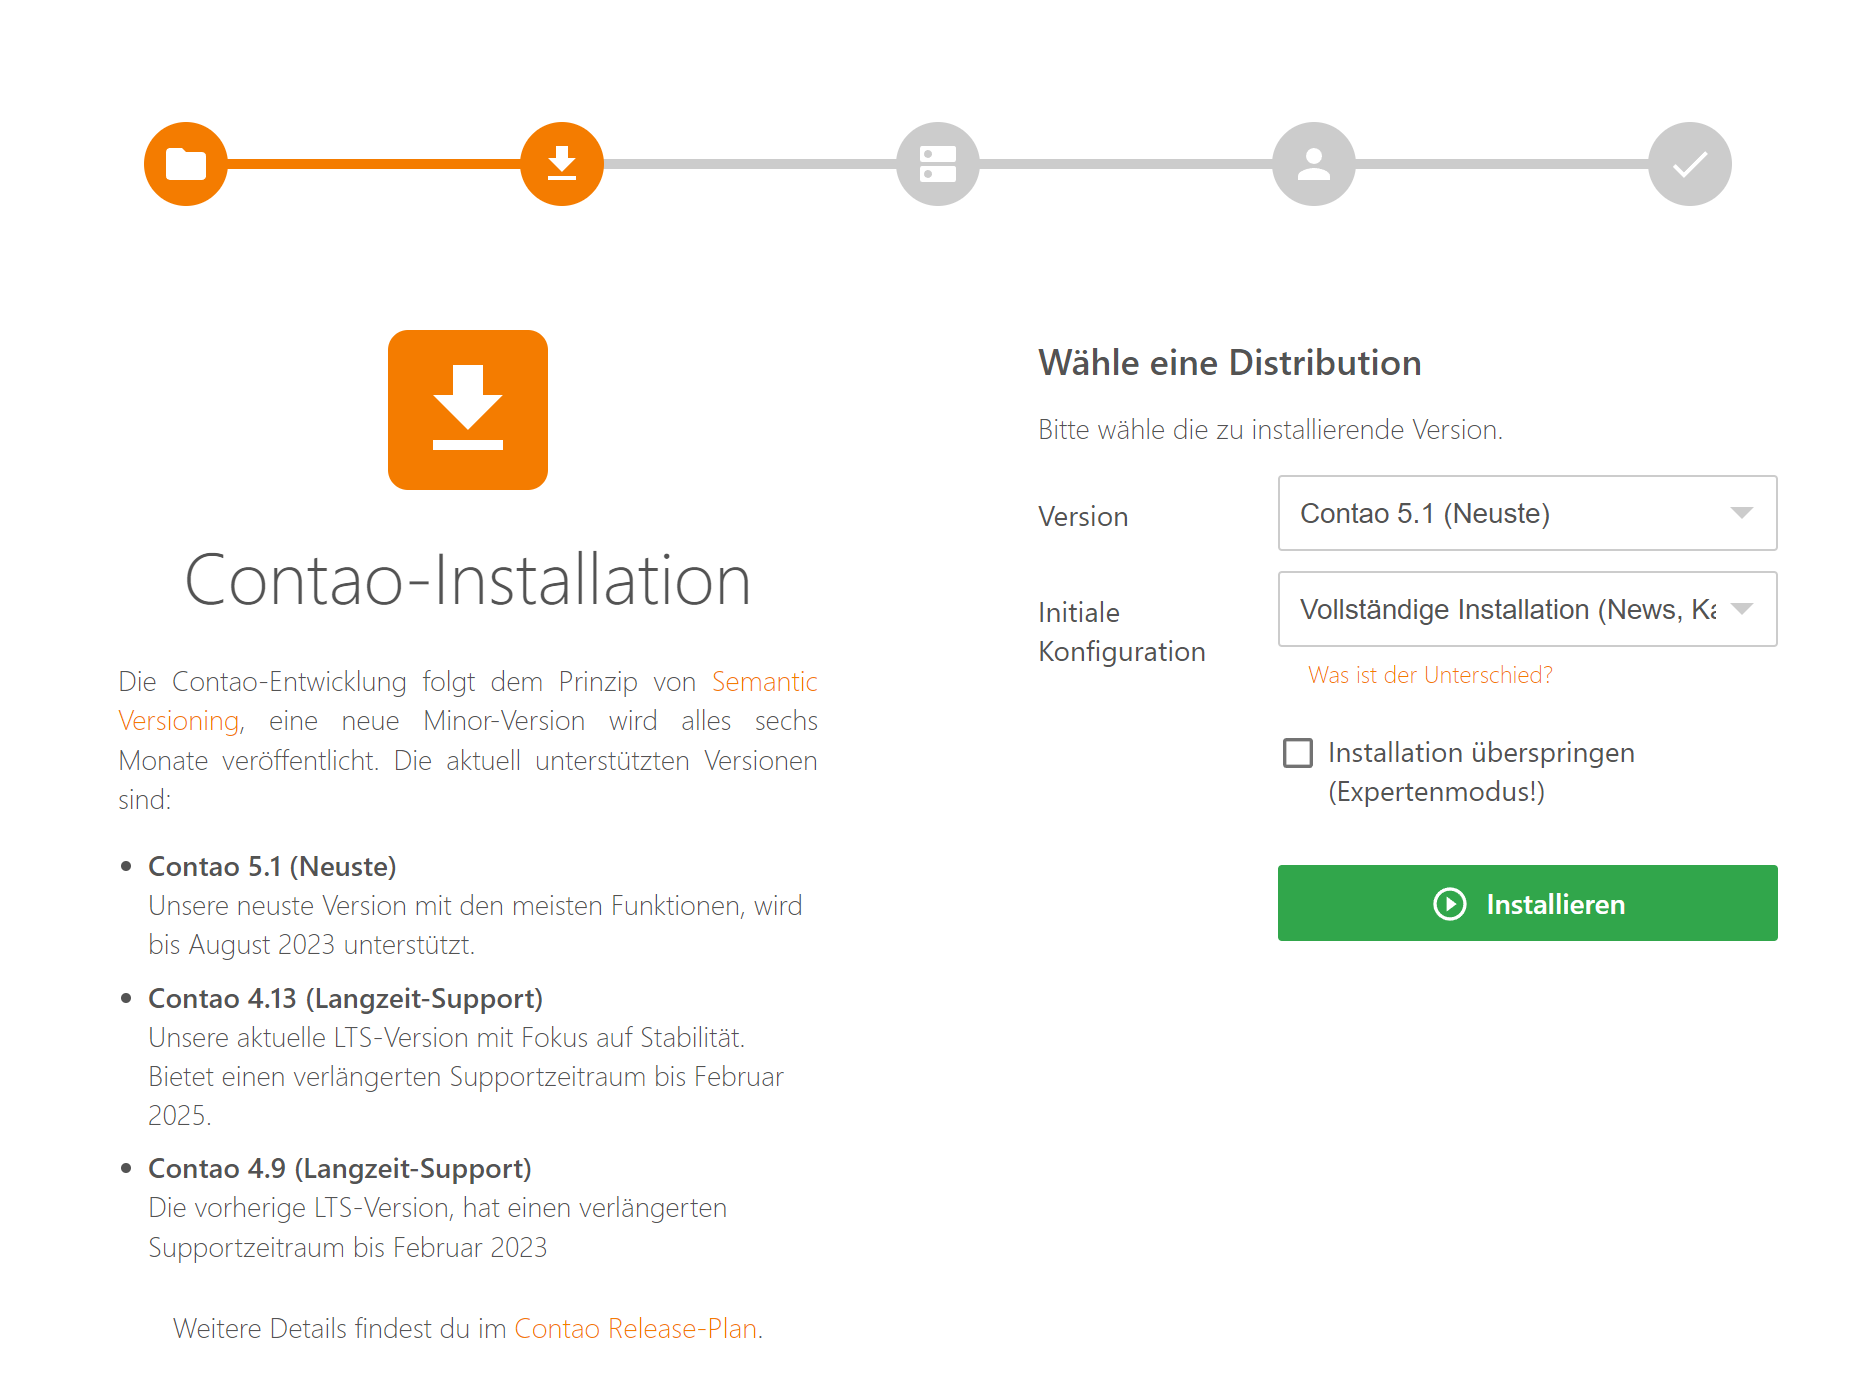
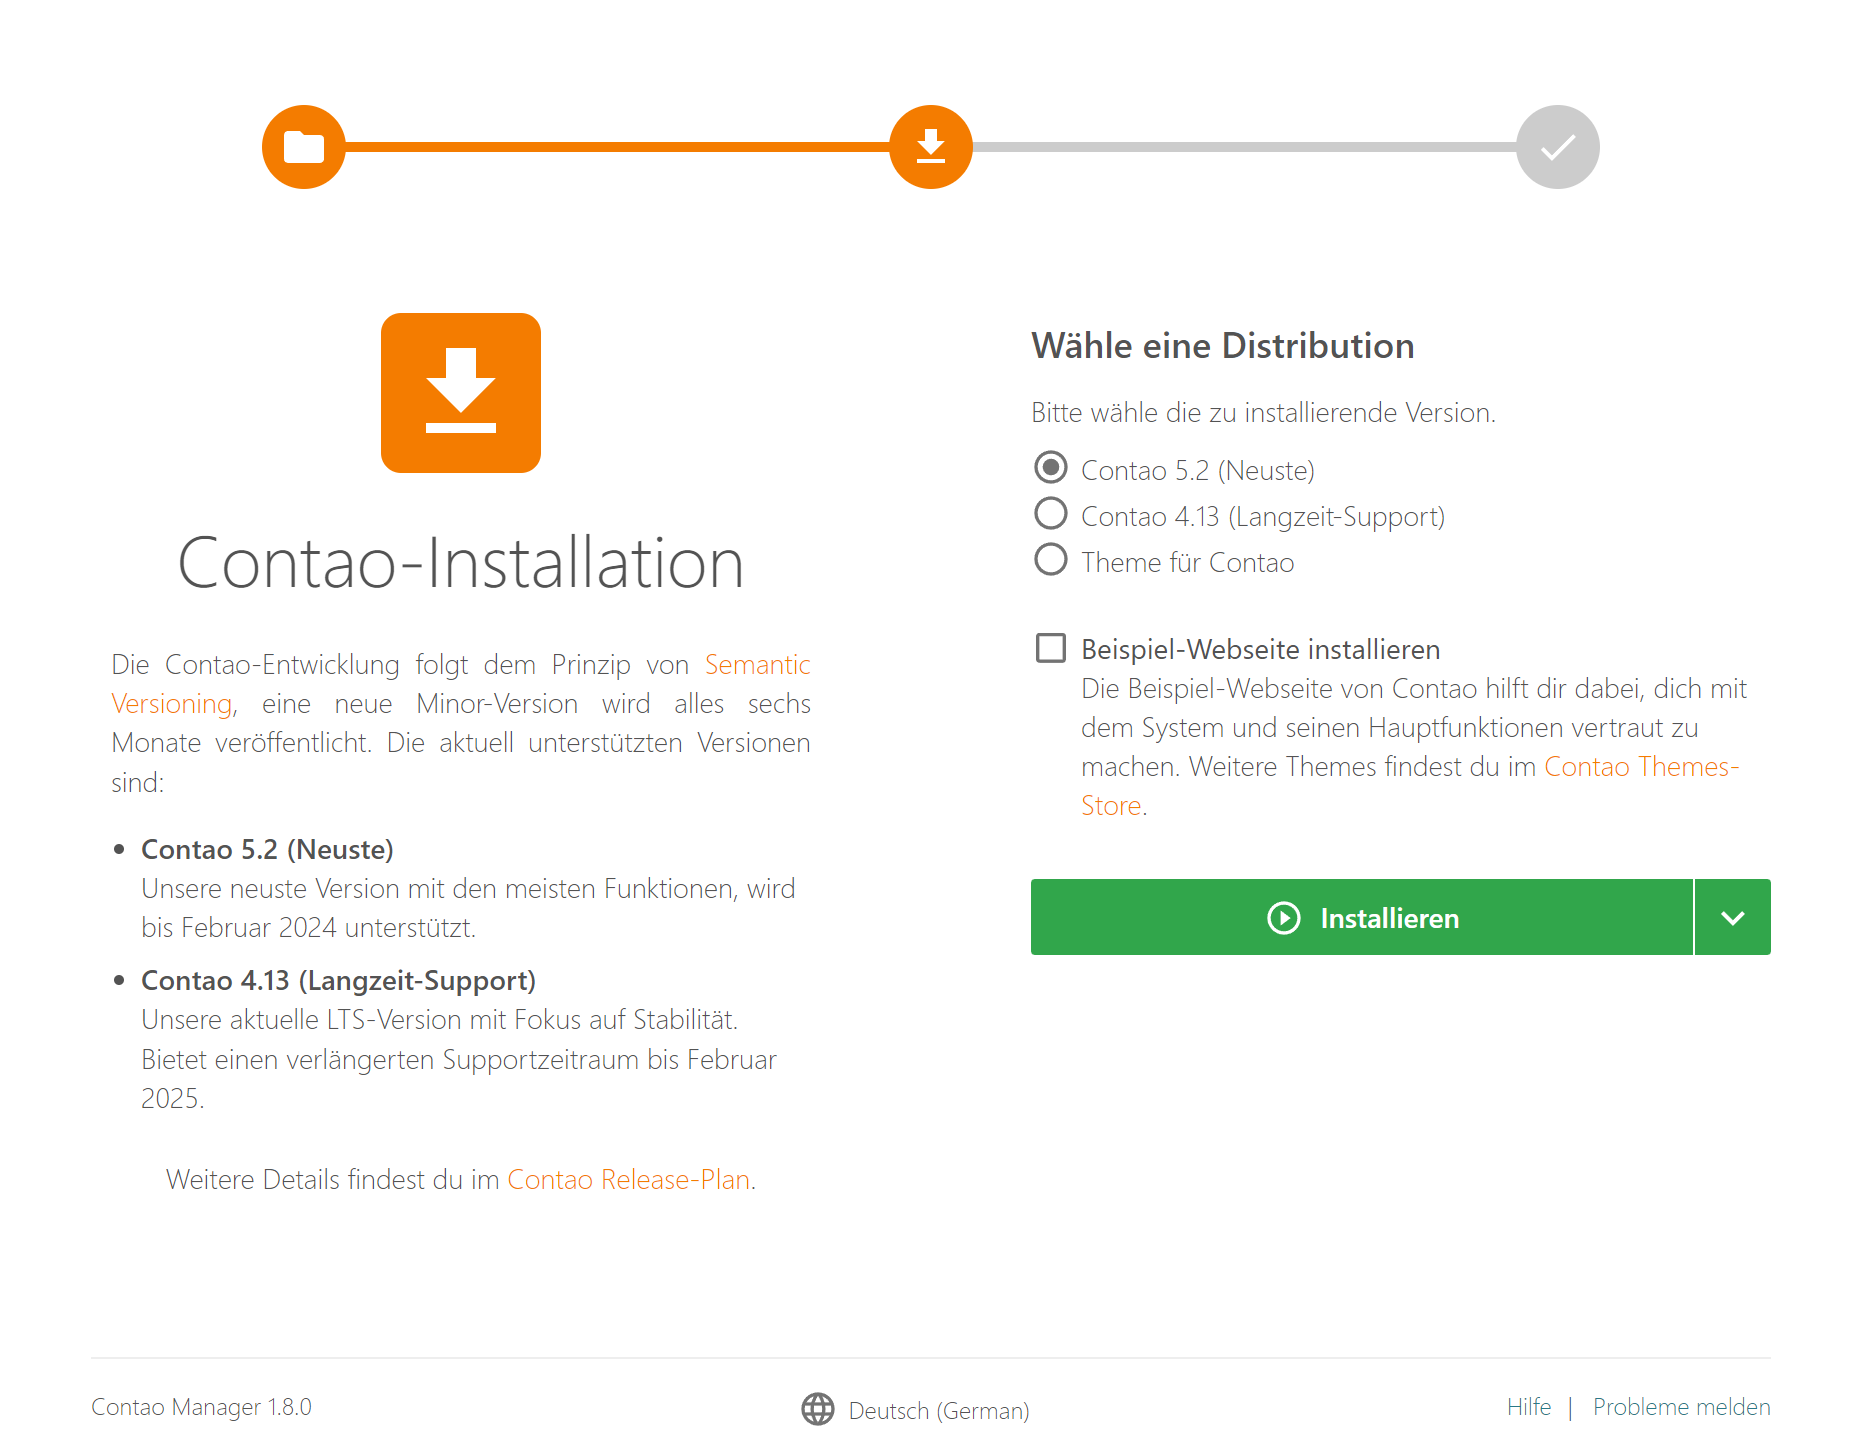
Update CM screenshots (#1254)

diff --git a/docs/manual/installation/quickstart.en.md b/docs/manual/installation/quickstart.en.md
@@ -65,10 +65,13 @@ The [Composer Resolver Cloud](https://composer-resolver.cloud/) allows the insta
 if the server does not have enough memory. Please note that your package information is sent to a 
 [Contao Association](https://association.contao.org/) cloud service for dependency resolution.
 
+
 ### Installing Contao with the Contao Manager
 
 After the successful basic configuration, Contao can now be installed. To do this, select the desired version
 and the initial configuration and click on the "Install" button.
+
+Optionally, you can also install the Contao "[sample website](https://demo.contao.org/)".
 
 ![Installing Contao with the Contao Manager]({{% asset "images/manual/installation/en/contao-manager-setup.png" %}}?classes=shadow)
 

diff --git a/docs/manual/installation/quickstart.de.md b/docs/manual/installation/quickstart.de.md
@@ -74,6 +74,8 @@ Auflösung der Abhängigkeiten an einen Cloud-Dienst der [Contao Association](ht
 Nach der erfolgreichen Grundkonfiguration kann nun Contao installiert werden. Dazu wählst du die gewünschte Version
 sowie die initiale Konfiguration aus und klickst auf die Schaltfläche »Installieren«.
 
+Optional kannst du hierbei auch zusätzlich die Contao »[Beispiel-Webseite](https://demo.contao.org/)« installieren. 
+
 ![Contao per Contao Manager installieren]({{% asset "images/manual/installation/de/contao-per-contao-manager-installieren.png" %}}?classes=shadow)
 
 Die Installation kann nun mehrere Minuten in Anspruch nehmen. Details zum Installationsprozess können durch Klick auf
